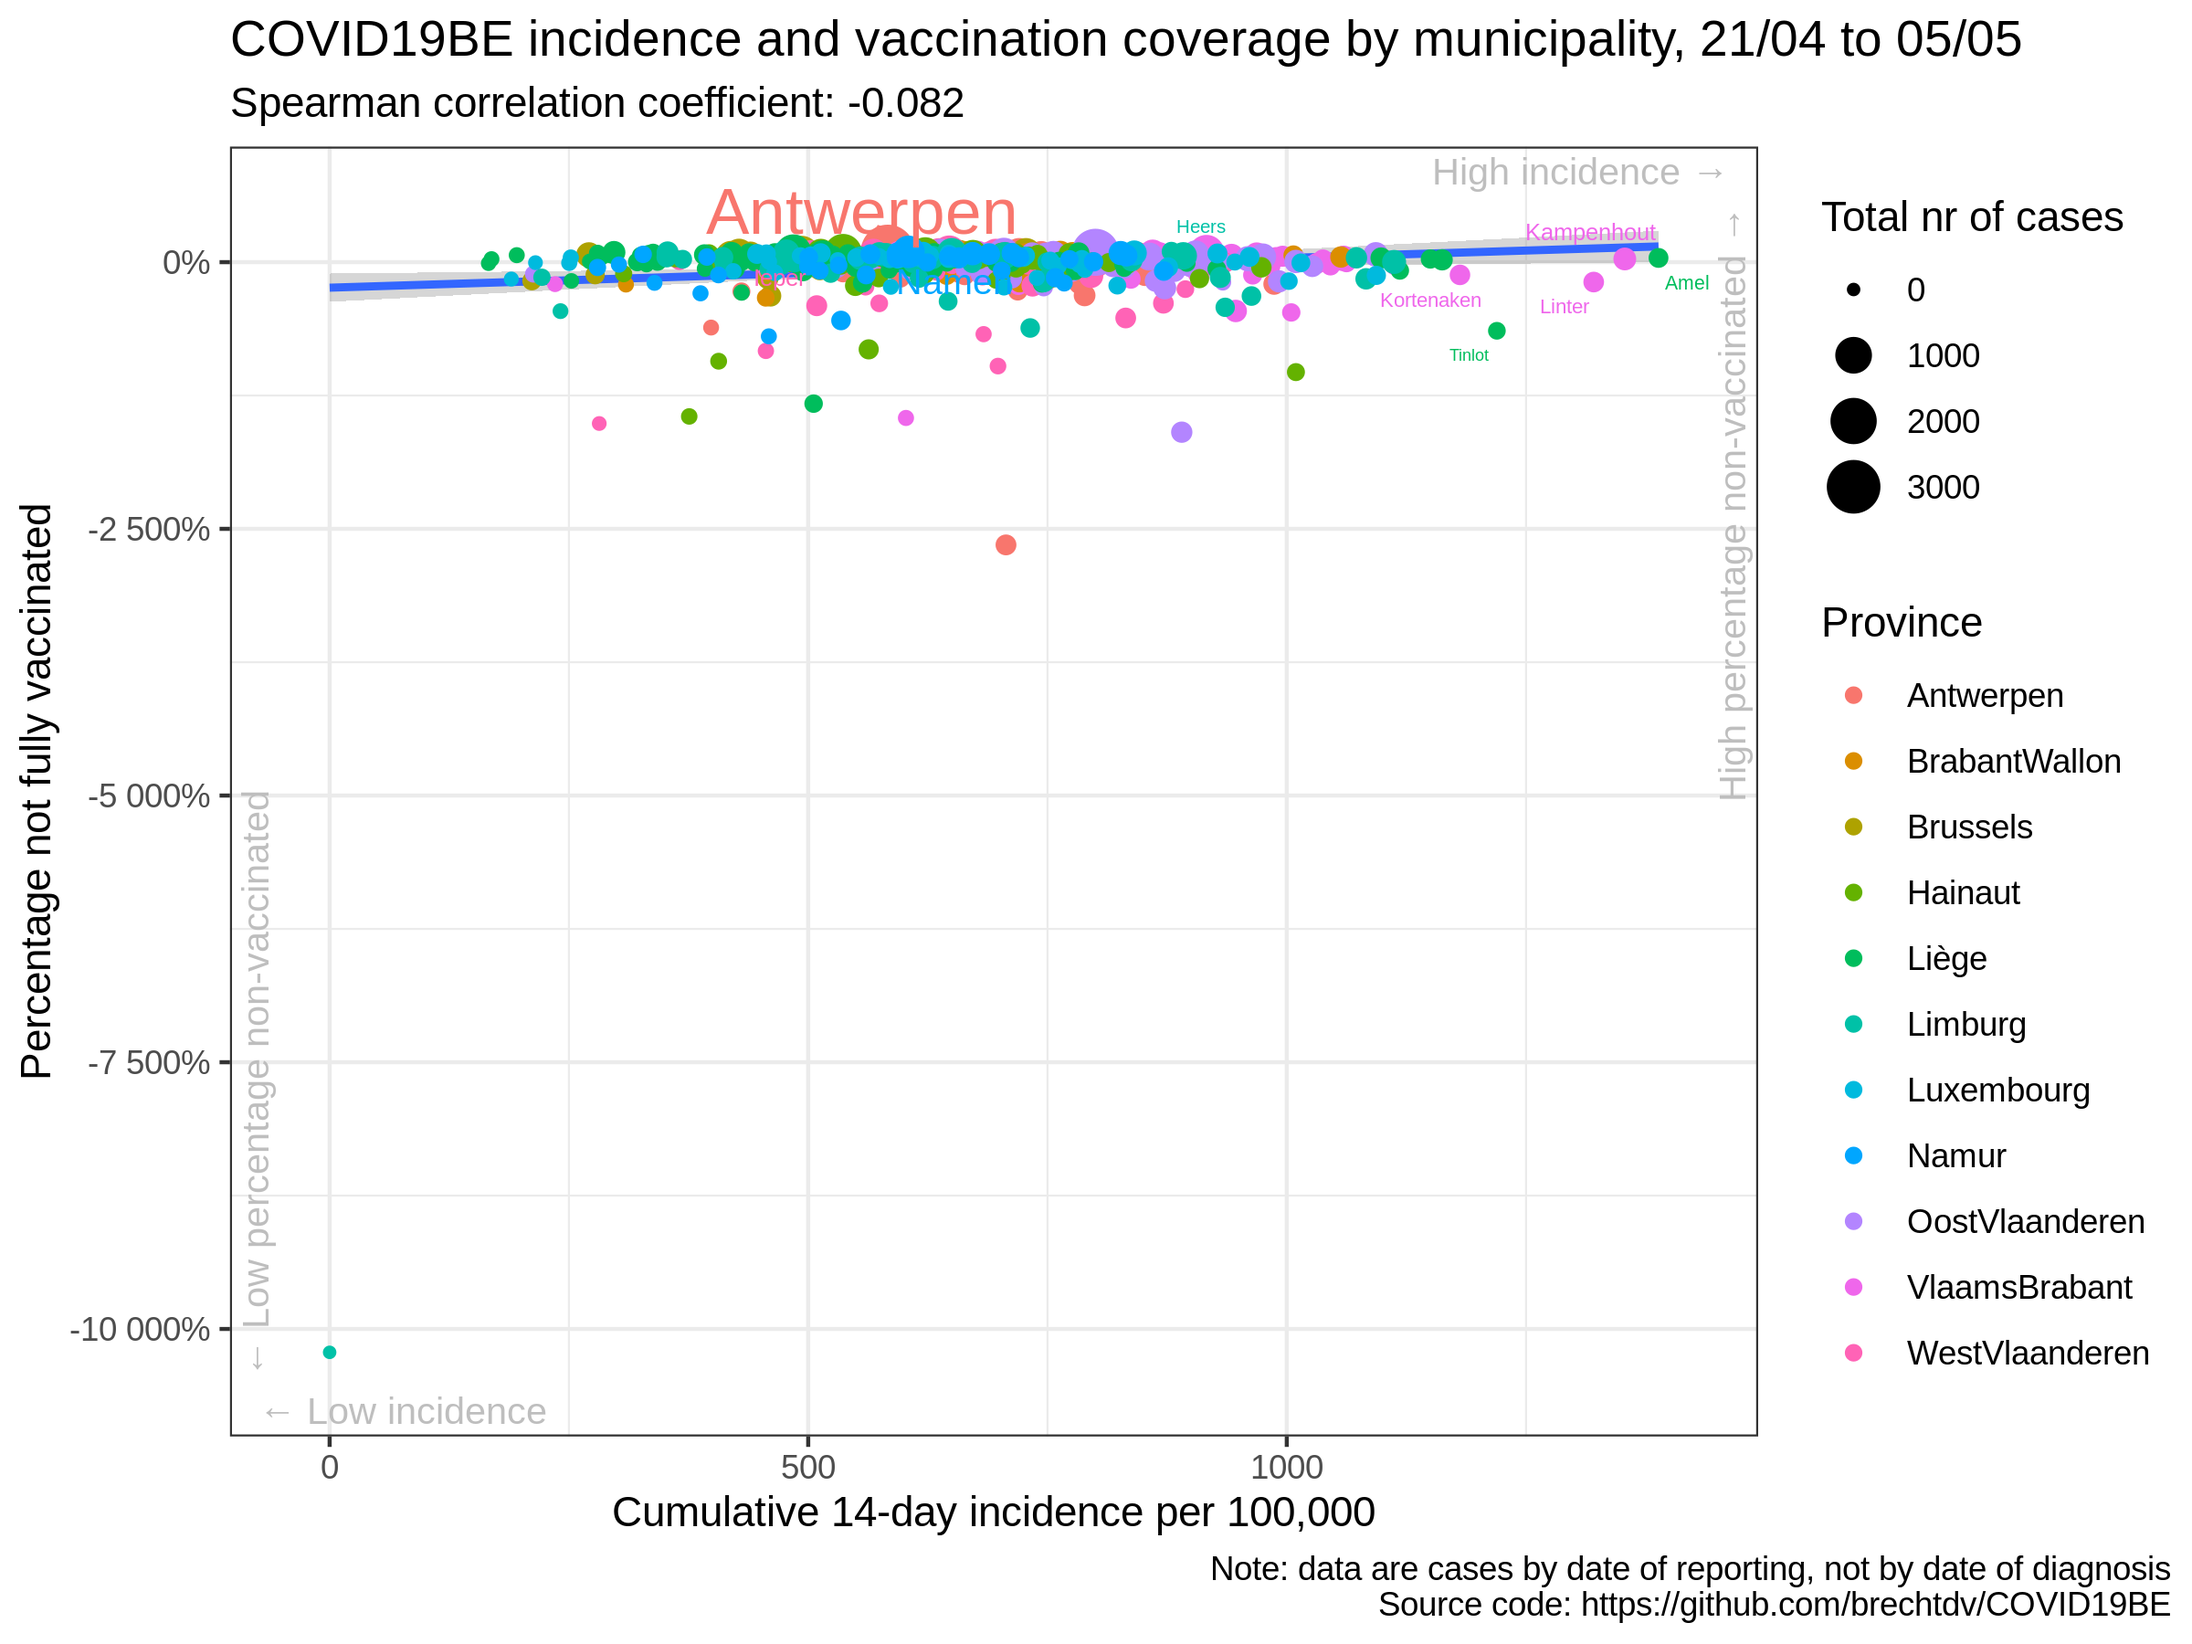
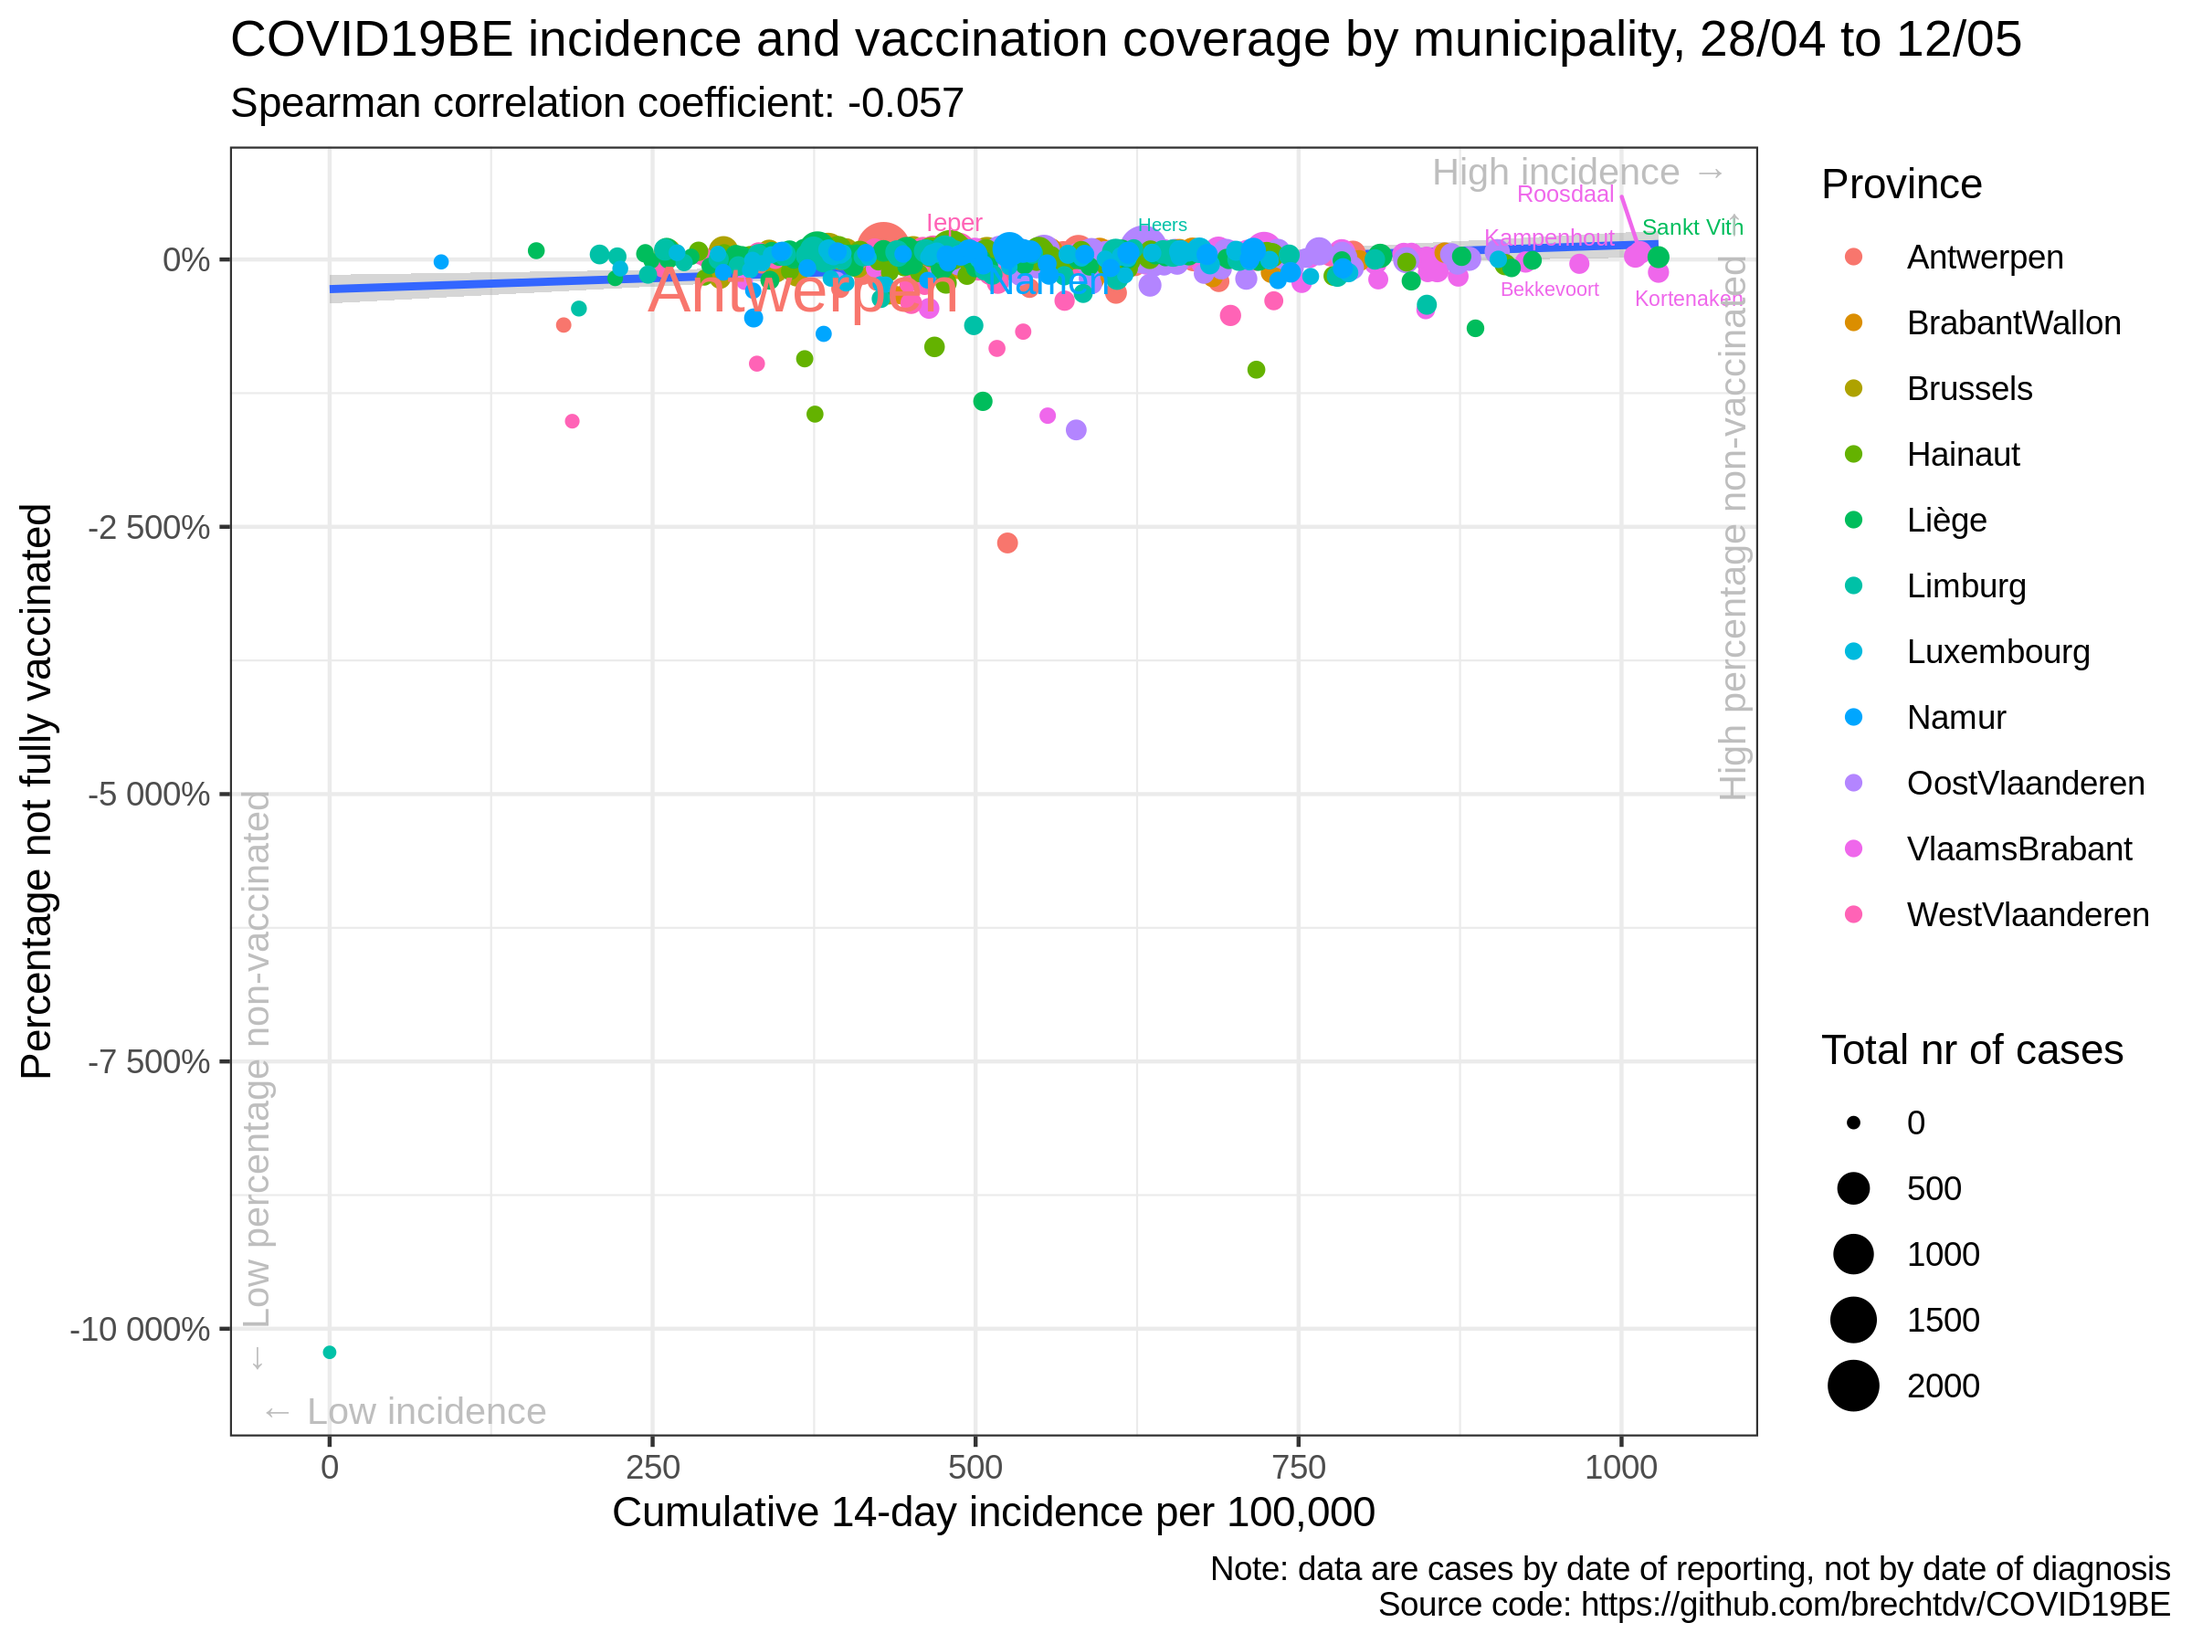
update situation

diff --git a/vaccination/README.md b/vaccination/README.md
@@ -17,35 +17,35 @@
 
 |                | estimate.rho | p.value |
 | :------------- | -----------: | ------: |
-| Antwerpen      |      \-0.080 |   0.512 |
-| BrabantWallon  |        0.235 |   0.237 |
-| Brussels       |        0.209 |   0.389 |
-| Hainaut        |      \-0.066 |   0.590 |
-| Liège          |      \-0.328 |   0.002 |
-| Limburg        |      \-0.046 |   0.771 |
-| Luxembourg     |      \-0.148 |   0.337 |
-| Namur          |        0.279 |   0.094 |
-| OostVlaanderen |      \-0.043 |   0.746 |
-| VlaamsBrabant  |      \-0.095 |   0.450 |
-| WestVlaanderen |      \-0.108 |   0.395 |
-| Belgium        |      \-0.082 |   0.049 |
+| Antwerpen      |      \-0.022 |   0.859 |
+| BrabantWallon  |        0.147 |   0.462 |
+| Brussels       |      \-0.016 |   0.951 |
+| Hainaut        |      \-0.053 |   0.662 |
+| Liège          |      \-0.304 |   0.005 |
+| Limburg        |        0.019 |   0.907 |
+| Luxembourg     |      \-0.049 |   0.753 |
+| Namur          |        0.134 |   0.427 |
+| OostVlaanderen |        0.123 |   0.348 |
+| VlaamsBrabant  |      \-0.136 |   0.279 |
+| WestVlaanderen |      \-0.025 |   0.846 |
+| Belgium        |      \-0.057 |   0.169 |
 
 ### Correlation cumulative incidence vs booster rate
 
 |                | estimate.rho | p.value |
 | :------------- | -----------: | ------: |
-| Antwerpen      |      \-0.078 |   0.524 |
-| BrabantWallon  |        0.245 |   0.216 |
-| Brussels       |        0.165 |   0.498 |
-| Hainaut        |      \-0.067 |   0.586 |
-| Liège          |      \-0.332 |   0.002 |
-| Limburg        |      \-0.041 |   0.796 |
-| Luxembourg     |      \-0.156 |   0.312 |
-| Namur          |        0.285 |   0.087 |
-| OostVlaanderen |      \-0.032 |   0.810 |
-| VlaamsBrabant  |      \-0.098 |   0.434 |
-| WestVlaanderen |      \-0.112 |   0.378 |
-| Belgium        |      \-0.107 |   0.010 |
+| Antwerpen      |      \-0.015 |   0.904 |
+| BrabantWallon  |        0.168 |   0.399 |
+| Brussels       |      \-0.054 |   0.826 |
+| Hainaut        |      \-0.047 |   0.700 |
+| Liège          |      \-0.304 |   0.005 |
+| Limburg        |        0.019 |   0.906 |
+| Luxembourg     |      \-0.049 |   0.751 |
+| Namur          |        0.151 |   0.369 |
+| OostVlaanderen |        0.124 |   0.342 |
+| VlaamsBrabant  |      \-0.146 |   0.246 |
+| WestVlaanderen |      \-0.029 |   0.821 |
+| Belgium        |      \-0.074 |   0.074 |
 
 ### Data source
 
